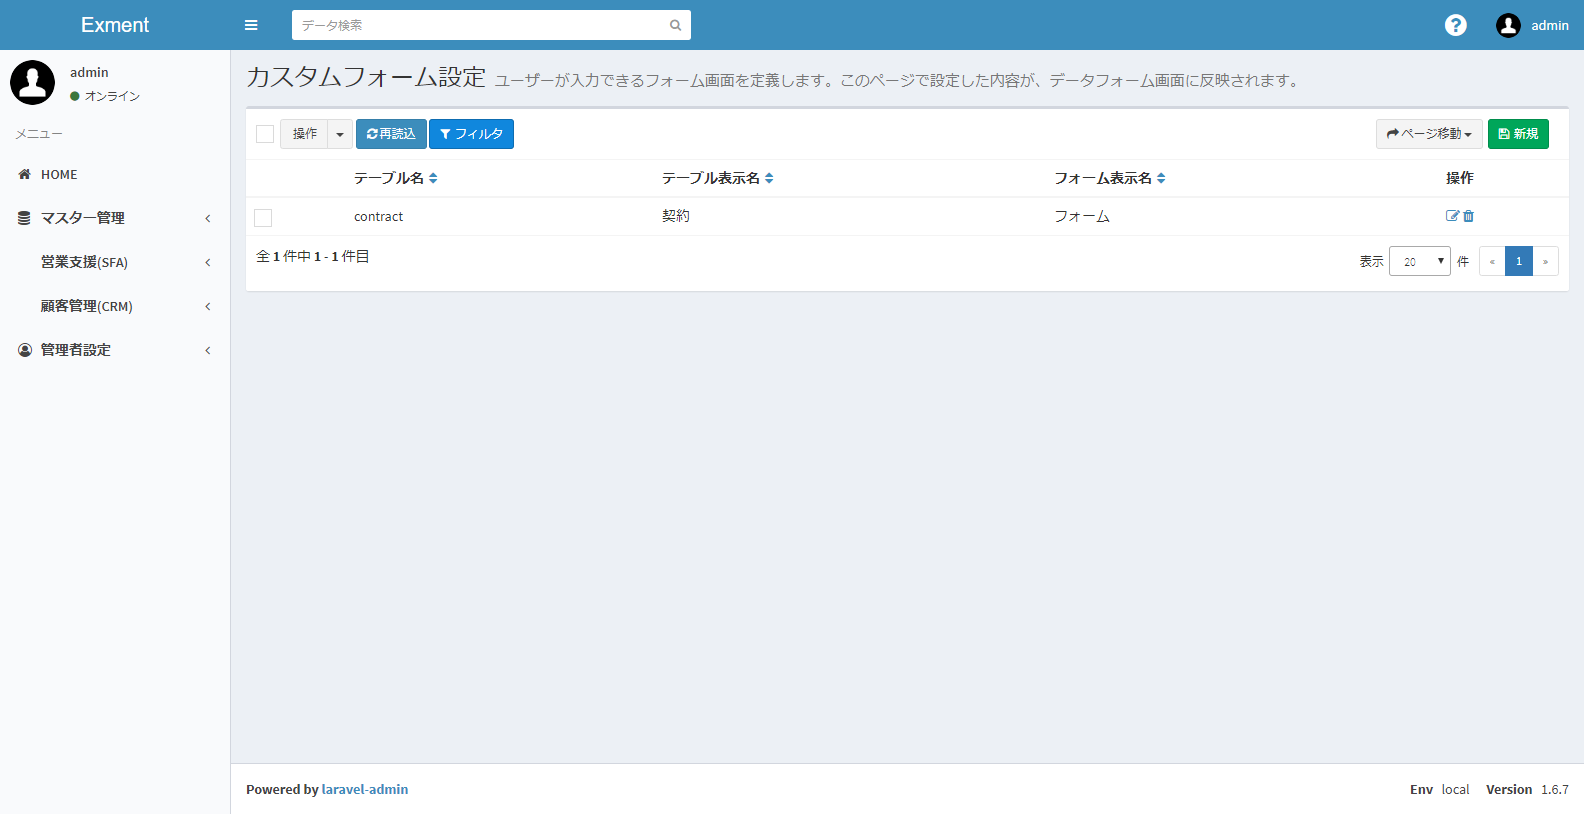
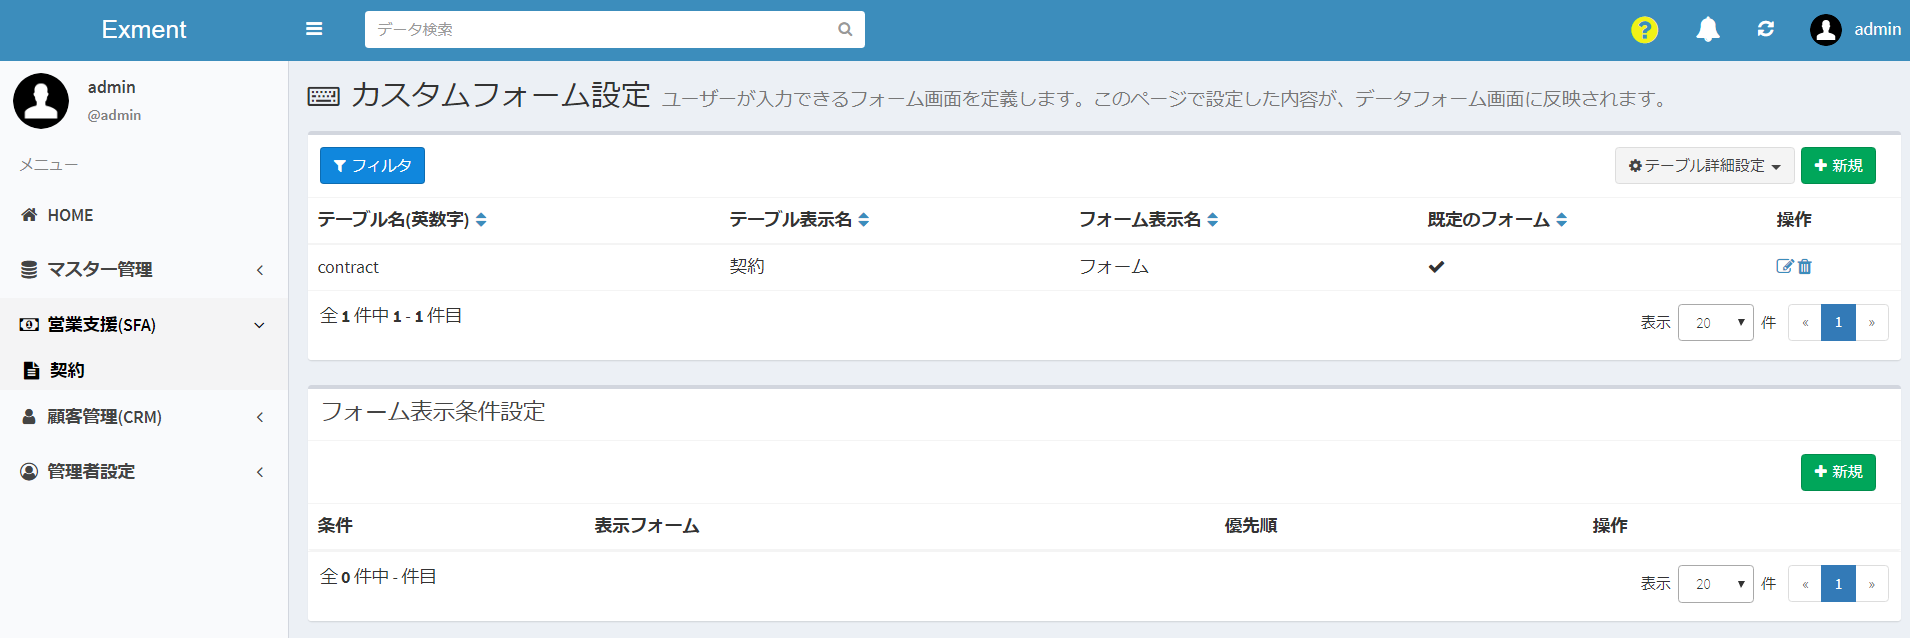
add manual by release_note 2020/02/16 ~ 2020/04/10

diff --git a/docs/ja/notify.md b/docs/ja/notify.md
@@ -61,7 +61,19 @@
 ![通知](img/notify/notify_delete.png)  
 
 ## 設定項目詳細
-通知を行うための条件「通知条件設定」と、どのように通知を行うかの「通知アクション設定」を設定します。  
+「通知名」と、通知を行うための条件「通知条件設定」、どのように通知を行うかの「通知アクション設定」を設定します。  
+
+### 通知名設定
+![通知](img/notify/notify_name.png)
+
+#### 通知名(英数字)
+- システムで使用する通知の名称です。  
+プラグイン(トリガー)のトリガー条件で通知実行直前や通知実行後を設定する際などに使用します。
+- 使用できるのは、半角英数字と記号の "-" と "_" です。
+- 文字数は30文字以内で、他の通知で使用している通知名は使用できません。
+
+#### 通知表示名
+- 通知名の名前を表します。
 
 ### 通知条件設定
 

diff --git a/docs/ja/data_details.md b/docs/ja/data_details.md
@@ -1,6 +1,7 @@
 # データ詳細
 [データ一覧](/ja/data_grid.md)で対象データをクリックすることにより、データ詳細が表示されます。  
-データ一覧では、ビュー設定の[表示列選択](/ja/view?id=表示列選択)で指定している内容だけが表示されますが、データ詳細では[データフォーム](/ja/data_form.md)として設定している項目全てが表示されます。
+データ一覧では、ビュー設定の[表示列選択](/ja/view?id=表示列選択)で指定している内容が表示されます。  
+データ詳細では[フォーム表示条件設定](/ja/form#フォーム表示条件設定)で設定している優先順に従い、合致するフォームの項目が表示されます。  
 
 また、データ詳細の画面では下記4種類の情報が表示されます。  
 
